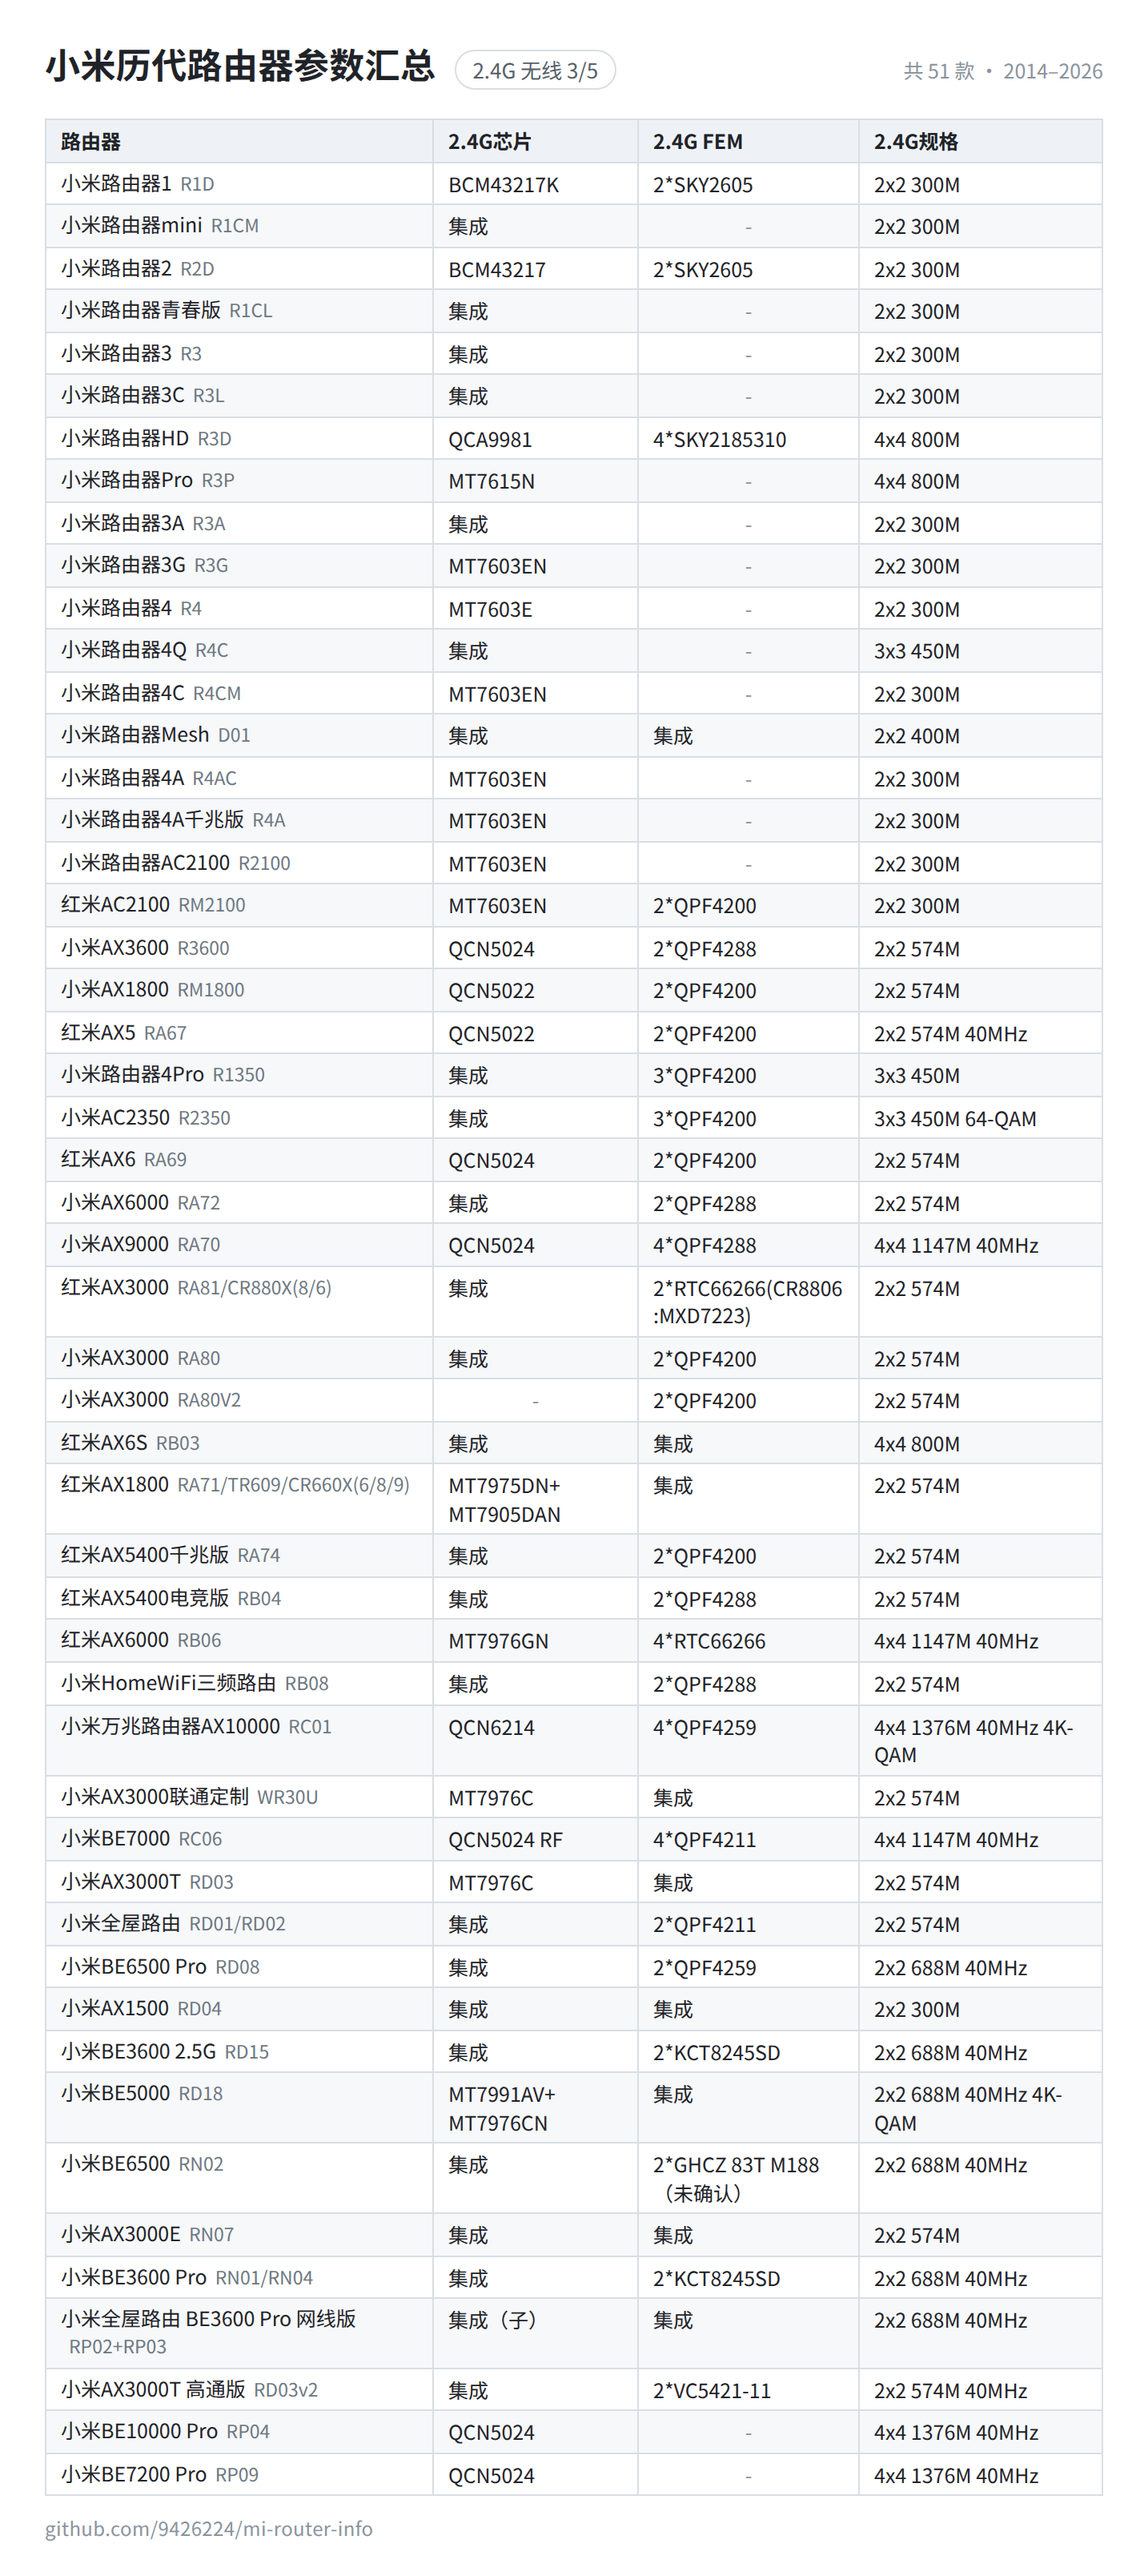
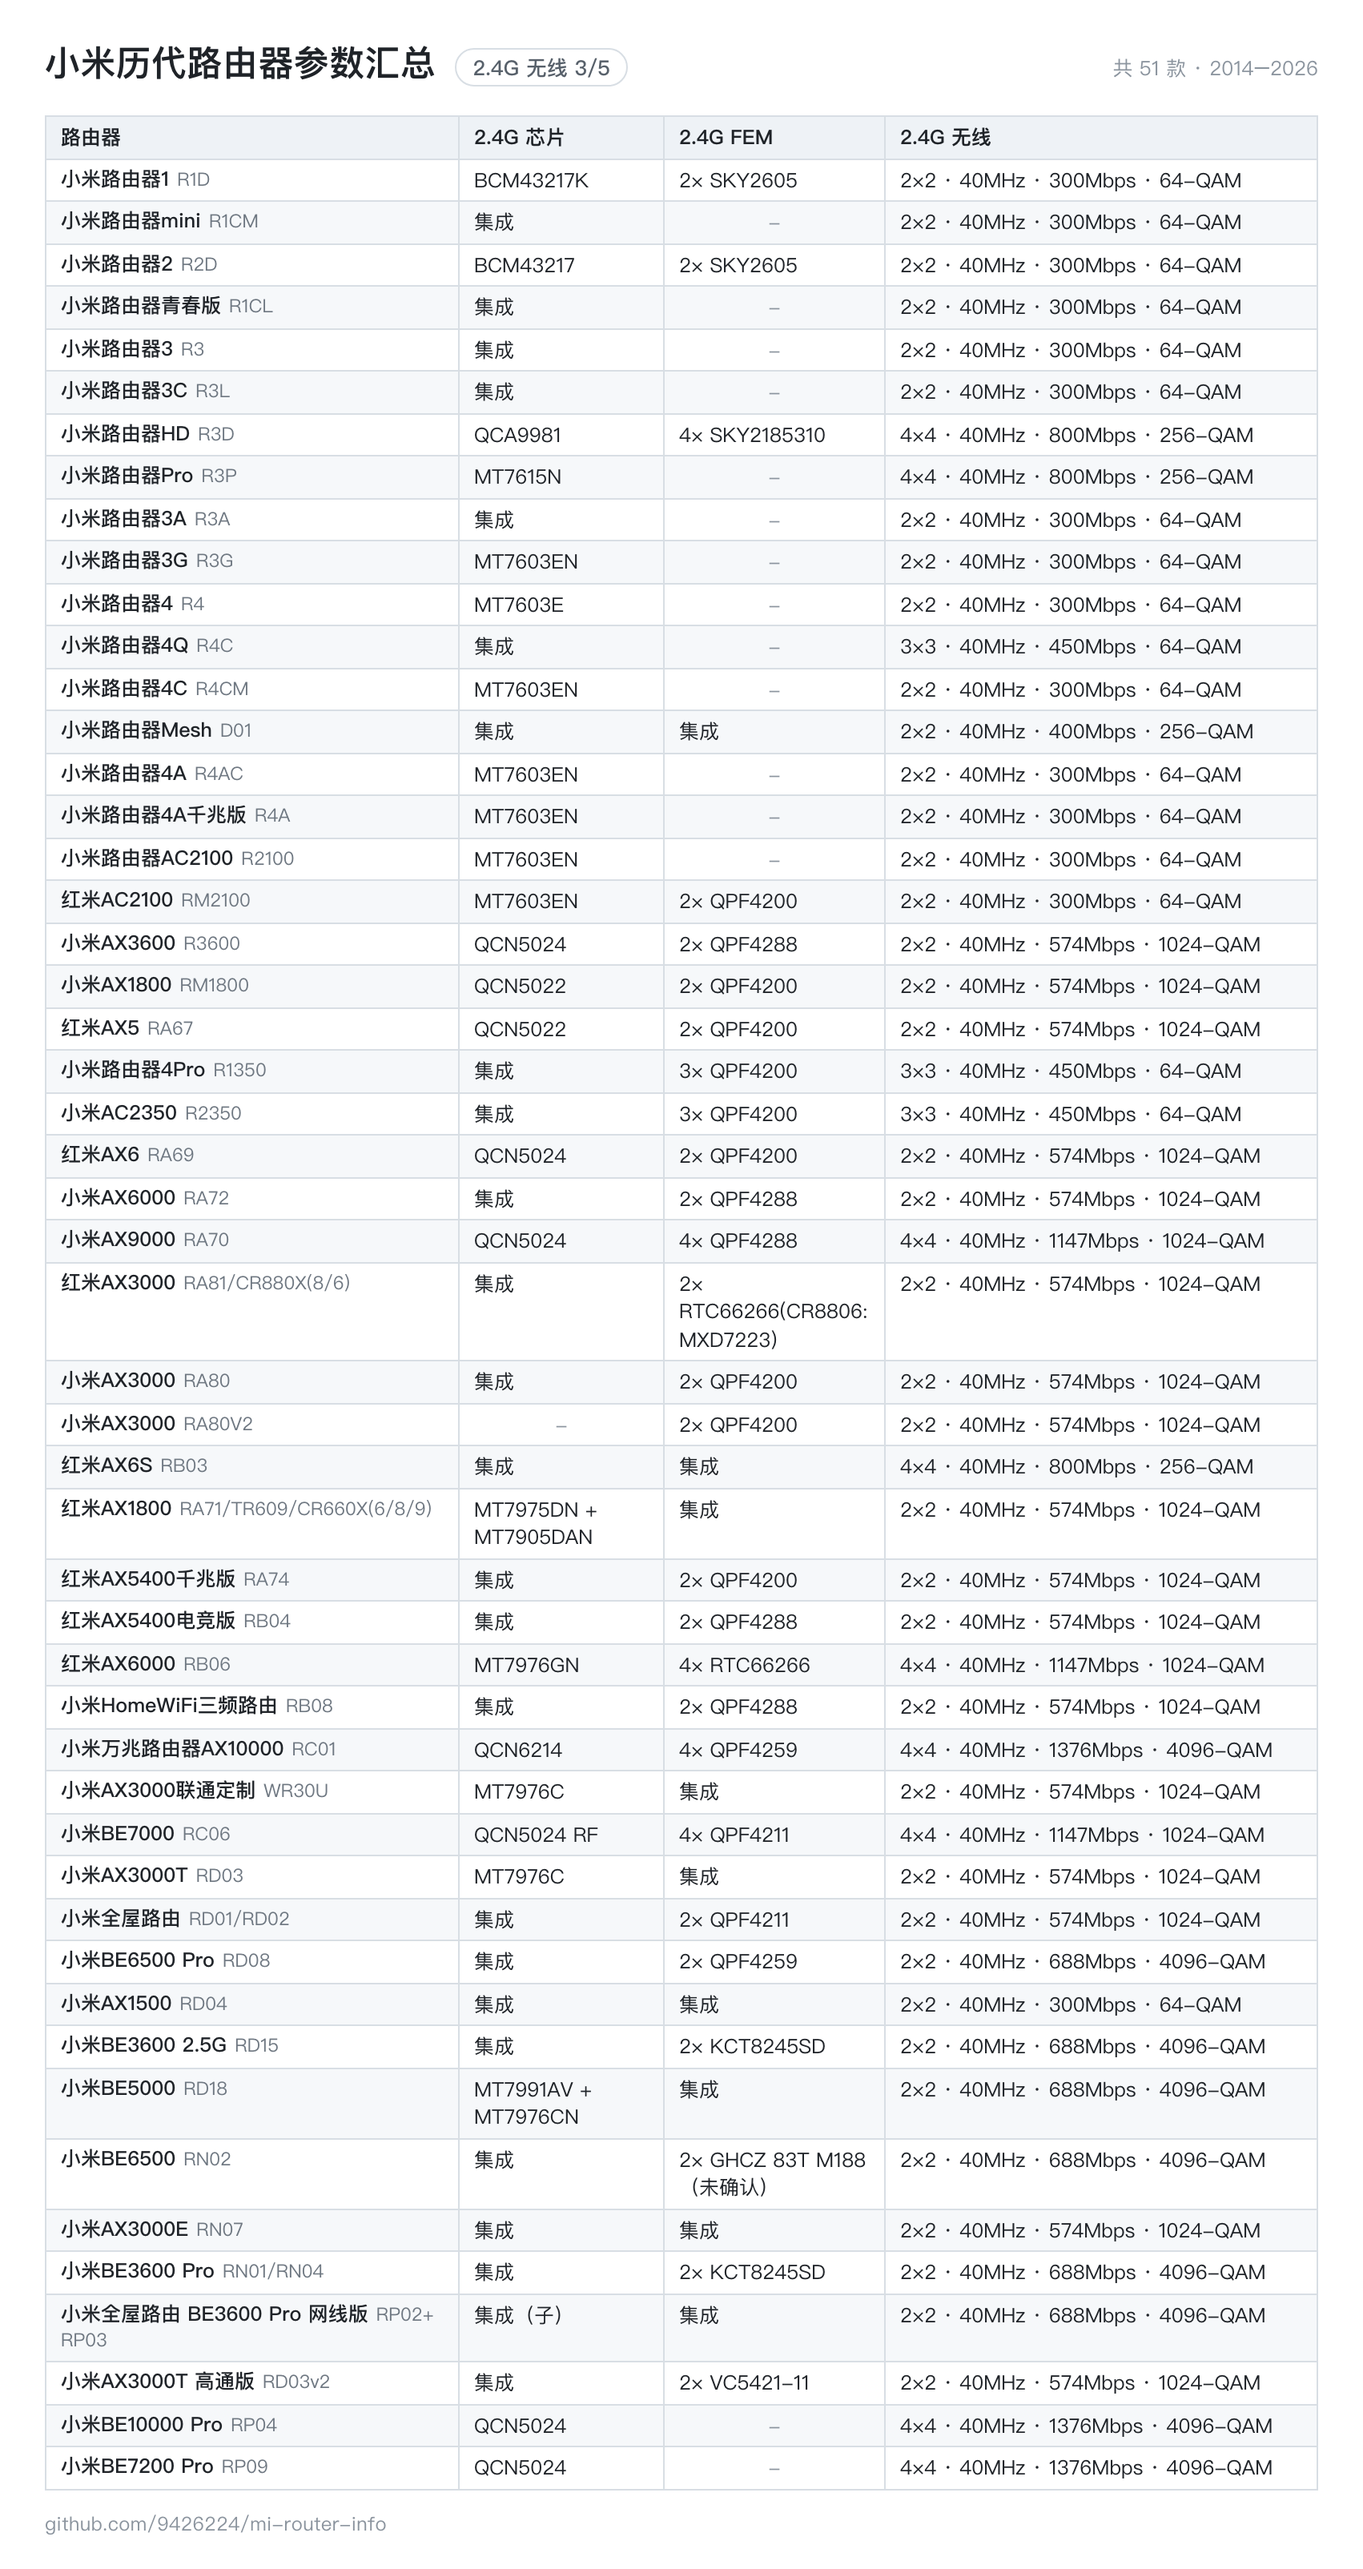
fix: 重写射频与天线表述 (v0.3.1)
- 无线列统一为 MIMO · 频宽 · 速率 · 调制（如 2×2 · 40MHz · 574Mbps · 1024-QAM），多频段/多模式分行
- 天线列统一为「n 根内置/外置」，补充分配与特殊天线；修正 HomeWiFi（8 根）、BE6500 Pro（含蓝牙/NFC）、BE3600 2.5G（内置）
- FEM、芯片与网口计数统一用 ×，列名统一为「2.4G 芯片 / 2.4G 无线 / 5G 芯片 / 5G 无线」
- 修正 BE7000 双频/三频模式、HomeWiFi 5.8G 的 4×4 4096-QAM 规格
- 修复网页列分组视图缺少「路由器名称 / 型号」列的问题

diff --git a/web/index.html b/web/index.html
@@ -16,8 +16,8 @@
         <p class="eyebrow">Xiaomi Router Specs</p>
         <h1>小米历代路由器参数汇总</h1>
         <p class="lede">
-          从 2014 年的小米路由器 1 到最新 Wi‑Fi 7 型号，逐台整理
-          SOC、内存、存储、无线方案与接口规格。
+          覆盖 2014
+          年至今的小米、红米路由器：主控、内存、存储、无线方案、网口与扩展接口。
         </p>
         <div class="stats">{{STATS}}</div>
         <p class="hero__links">

diff --git a/docs/contributing.md b/docs/contributing.md
@@ -22,28 +22,30 @@
 
 ## 字段约定
 
-| 列                    | 说明                              | 示例                                    |
-| --------------------- | --------------------------------- | --------------------------------------- |
-| 路由器名称            | 商品名                            | 小米AX6000                              |
-| 型号                  | 背板型号，多型号用 `/`            | RA72                                    |
-| 上市时间              | `YYYY.M.D`；只查到月份写 `YYYY.M` | 2020.12.28                              |
-| SOC                   | 主控芯片                          | IPQ5018                                 |
-| 频率/架构             | 核心数、主频、架构                | 2C 1G A53                               |
-| ACC/NPU               | 硬件加速 / NPU 规格               | 1C 1G                                   |
-| 内存 / 内存型号       | 容量与颗粒型号                    | 512M DDR3L / 钰创EM6HE16EWAKG-10H       |
-| 存储 / 存储型号       | 容量与颗粒型号                    | 128M / 兆易创新GD5F1GQ4REYIG            |
-| 2.4G芯片 / FEM / 规格 | 2.4G 无线方案                     | 集成 / 2\*QPF4288 / 2x2 574M            |
-| 5G芯片 / FEM / 规格   | 5G 无线方案                       | QCN9024 / 4\*QPF4588 / 4x4 4804M 160Mhz |
-| 天线                  | 数量与内置/外置                   | 7\*外置                                 |
-| 其他功能芯片          | 蓝牙、独立 FEM 等                 | QCA9889                                 |
-| 背板网口              | 网口组合                          | 2.5G\*1+1G\*3                           |
-| USB/SATA              | 接口                              | USB3.0                                  |
-| 交换机芯片            | 交换芯片                          | QCA8337-AL3C+QCA8081                    |
+| 列                     | 说明                              | 示例                                                      |
+| ---------------------- | --------------------------------- | --------------------------------------------------------- |
+| 路由器名称             | 商品名                            | 小米AX6000                                                |
+| 型号                   | 背板型号，多型号用 `/`            | RA72                                                      |
+| 上市时间               | `YYYY.M.D`；只查到月份写 `YYYY.M` | 2020.12.28                                                |
+| SOC                    | 主控芯片                          | IPQ5018                                                   |
+| 频率/架构              | 核心数、主频、架构                | 2C 1G A53                                                 |
+| ACC/NPU                | 硬件加速 / NPU 规格               | 1C 1G                                                     |
+| 内存 / 内存型号        | 容量与颗粒型号                    | 512M DDR3L / 钰创EM6HE16EWAKG-10H                         |
+| 存储 / 存储型号        | 容量与颗粒型号                    | 128M / 兆易创新GD5F1GQ4REYIG                              |
+| 2.4G 芯片 / FEM / 无线 | 2.4G 无线方案                     | 集成 / 2× QPF4288 / 2×2 · 40MHz · 574Mbps · 1024-QAM      |
+| 5G 芯片 / FEM / 无线   | 5G 无线方案                       | QCN6224 / 4× QPF4559 / 4×4 · 160MHz · 5765Mbps · 4096-QAM |
+| 天线                   | 数量、内置/外置与频段分配         | 7 根外置（2.4G×2 + 5G×4 + AIoT×1）                        |
+| 其他功能芯片           | 蓝牙、独立 FEM 等                 | QCA9889                                                   |
+| 背板网口               | 网口组合                          | 2.5G×1 + 1G×3                                             |
+| USB/SATA               | 接口                              | USB3.0                                                    |
+| 交换机芯片             | 交换芯片                          | QCA8337-AL3C+QCA8081                                      |
 
 约定：
 
 - 「路由器名称 + 型号」必须唯一，重复会被构建拦下。
 - 未知或不适用的字段统一写 `-`，不要留空。
+- 无线列写成 `MIMO · 频宽 · 速率 · 调制`，例如 `2×2 · 40MHz · 574Mbps · 1024-QAM`；多频段用 `；` 分隔，构建时会自动换行。
+- 天线写成 `数量 根内置/外置`，能确认频段分配或特殊天线时在括号里补充。
 - 上市时间写 `2014.4.23`；只查到月份可以写 `2025.6`，只写年份会被提示补全。
 - 列顺序不要改；要增删列需同时改 `scripts/build.mjs` 里的 `COLUMNS` 和列分组。
 
@@ -70,8 +72,8 @@ open output/index.html
 
 1. 概览与性能：上市时间、SOC、频率/架构、ACC/NPU
 2. 内存与存储：内存、内存型号、存储、存储型号
-3. 2.4G 无线：2.4G芯片、2.4G FEM、2.4G规格
-4. 5G 无线：5G芯片、5G FEM、5G规格
+3. 2.4G 无线：2.4G 芯片、2.4G FEM、2.4G 无线
+4. 5G 无线：5G 芯片、5G FEM、5G 无线
 5. 接口与其他：天线、其他功能芯片、背板网口、USB/SATA、交换机芯片
 
 分组与列宽定义在 `scripts/build.mjs` 的 `GROUPS`、`COLUMN_WIDTH`。

diff --git a/README.md b/README.md
@@ -42,22 +42,24 @@
 
 ## 字段说明
 
-| 字段                             | 说明                                       |
-| -------------------------------- | ------------------------------------------ |
-| 路由器名称 / 型号                | 商品名 / 背板或认证型号，多型号用 `/` 分隔 |
-| 上市时间                         | 开售或众筹日期；只查到月份时写作 `YYYY.M`  |
-| SOC / 频率/架构                  | 主控芯片与核心数、主频、架构               |
-| ACC/NPU                          | 硬件加速或 NPU 规格，`-` 表示没有或未确认  |
-| 内存 / 内存型号                  | 容量、代际与颗粒型号                       |
-| 存储 / 存储型号                  | 闪存容量与颗粒型号                         |
-| 2.4G / 5G 芯片、FEM、规格        | 无线芯片、外置功放与理论速率（含 4K QAM）  |
-| 天线 / 其他功能芯片              | 天线数量与内外置、蓝牙/NFC/PoE 等辅助芯片  |
-| 背板网口 / USB/SATA / 交换机芯片 | 有线接口、存储接口与交换芯片               |
+| 字段                             | 说明                                        |
+| -------------------------------- | ------------------------------------------- |
+| 路由器名称 / 型号                | 商品名 / 背板或认证型号，多型号用 `/` 分隔  |
+| 上市时间                         | 开售或众筹日期；只查到月份时写作 `YYYY.M`   |
+| SOC / 频率/架构                  | 主控芯片与核心数、主频、架构                |
+| ACC/NPU                          | 硬件加速或 NPU 规格，`-` 表示没有或未确认   |
+| 内存 / 内存型号                  | 容量、代际与颗粒型号                        |
+| 存储 / 存储型号                  | 闪存容量与颗粒型号                          |
+| 2.4G / 5G 芯片、FEM、无线        | 无线芯片、外置功放与 MIMO·频宽·速率·调制    |
+| 天线 / 其他功能芯片              | 天线数量与内外置、频段分配，蓝牙/NFC/PoE 等 |
+| 背板网口 / USB/SATA / 交换机芯片 | 有线接口、存储接口与交换芯片                |
 
 几条口径：
 
 - `-` 表示该项未确认或不适用，不当成 0。
-- 速率是厂商理论最大值，实际速率取决于终端、频宽和环境影响。
+- 无线列统一写作 `4×4 · 160MHz · 5765Mbps · 4096-QAM`（MIMO · 频宽 · 理论速率 · 调制）；多频段或多模式用换行分隔。
+- 天线列写作 `6 根外置`，括号内补充频段分配或特殊天线（AIoT、蓝牙、NFC）。
+- 速率是厂商理论最大值，Wi-Fi 7 按 4096-QAM、Wi-Fi 6 按 1024-QAM 计，实际速率取决于终端、频宽和环境影响。
 - 同一型号可能有多个硬件批次（例如 BE3600 的 RD15/RD16、AX3000T 的联发科/高通版、BE6500 Pro 的内存缩水版），表中记录主批次，差异单独整理在 [docs/variants.md](docs/variants.md)。
 
 ## 添加或修正型号

diff --git a/CHANGELOG.md b/CHANGELOG.md
@@ -1,5 +1,14 @@
 # 更新记录
 
+## 0.3.1 - 2026-11-23
+
+射频与天线字段改写为统一、可核对的写法。
+
+- 无线列统一为 `MIMO · 频宽 · 速率 · 调制`，例如 `2×2 · 40MHz · 574Mbps · 1024-QAM`；多频段/多模式用换行分隔（AX9000、HomeWiFi、万兆、BE7000、BE10000 Pro）
+- 天线列改为 `n 根内置/外置`，能确认时补充频段分配与特殊天线；修正 HomeWiFi（8 根，含蓝牙/NFC）、BE6500 Pro（另含蓝牙/NFC）、BE3600 2.5G（内置）
+- FEM、芯片与网口计数统一用 `×`；列名统一为「2.4G 芯片 / 2.4G 无线 / 5G 芯片 / 5G 无线」
+- 修正 BE7000 的 5G 双频/三频两种模式表述，补齐 HomeWiFi 5.8G 的 4×4 4096-QAM 规格
+
 ## 0.3.0 - 2026-11-23
 
 补充 2024–2026 年型号，修正已知错误，并补全来源与批次说明。

diff --git a/docs/design.md b/docs/design.md
@@ -14,8 +14,8 @@
 
 ```
 路由器名称, 型号, 上市时间, SOC, 频率/架构, ACC/NPU, 内存, 内存型号, 存储, 存储型号,
-2.4G芯片, 2.4G FEM, 2.4G规格, 5G芯片, 5G FEM, 5G规格, 天线, 其他功能芯片, 背板网口,
-USB/SATA, 交换机芯片
+2.4G 芯片, 2.4G FEM, 2.4G 无线, 5G 芯片, 5G FEM, 5G 无线, 天线, 其他功能芯片,
+背板网口, USB/SATA, 交换机芯片
 ```
 
 选择 CSV 的原因：Excel / WPS / Numbers 可直接编辑，git diff 逐行可读，脚本解析成本低；表头即字段名，不需要额外 schema 文件。
